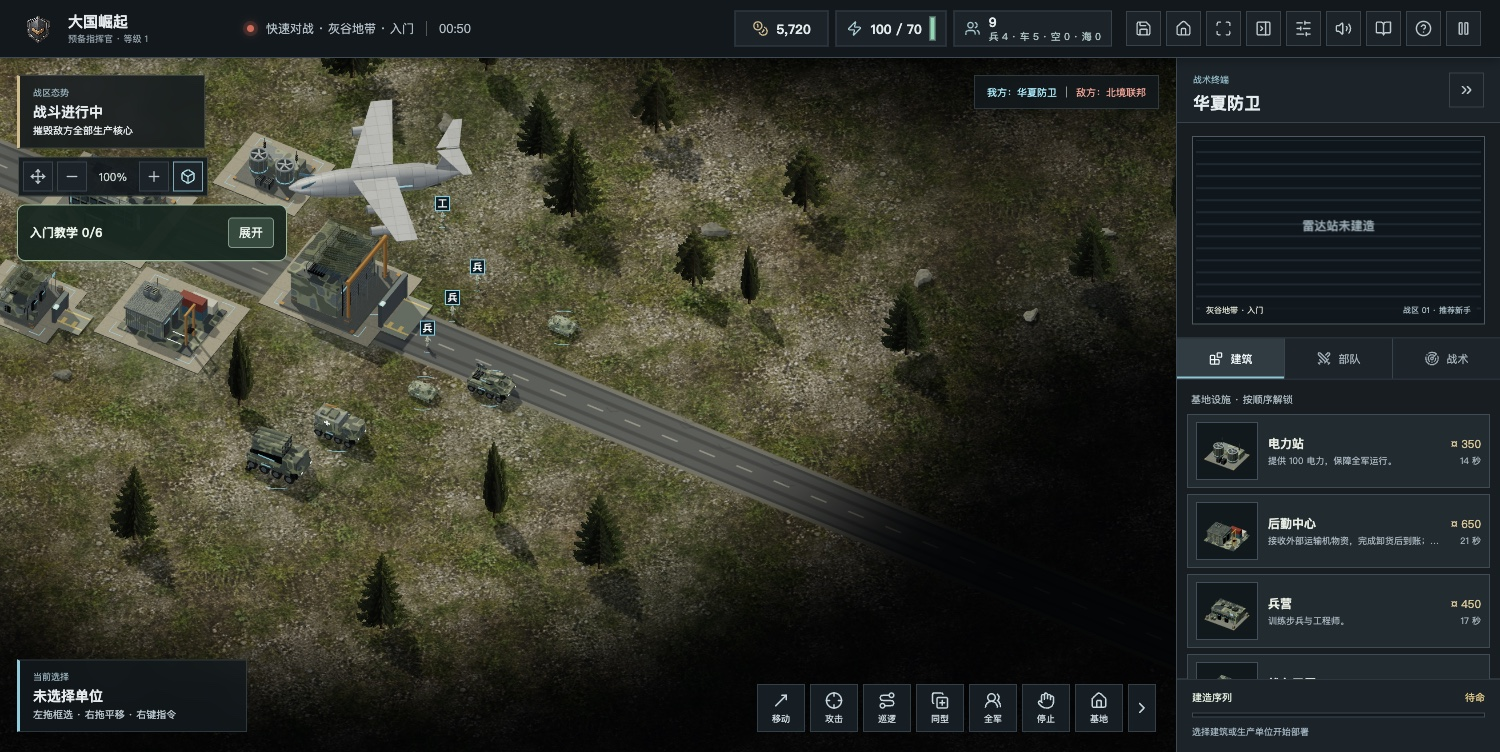
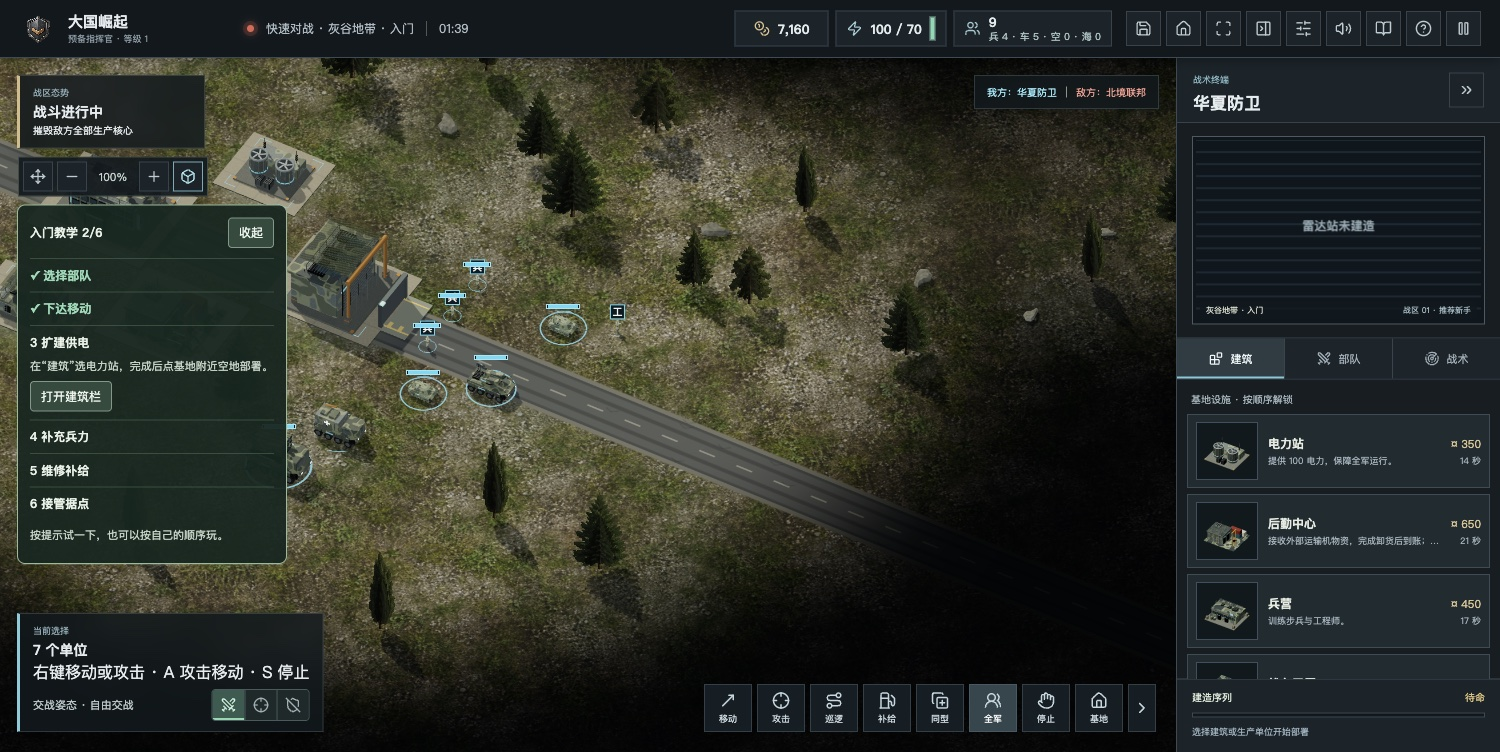
改为小横血条并限制密集团战标记遮挡

diff --git a/src/render.js b/src/render.js
@@ -1,3 +1,4 @@
+import { healthBarPresentation, healthBarBudget } from './health-bar-presentation.js';
 import { readPresentation, groundPresentationFactor, selectionTolerance, nearestScreenSelection, personnelRoleMark } from './unit-presentation.js';
 import { AIRCRAFT_LENGTHS, airframeScale, flightScaleFactor, unitModelScale, presentationRadius, aircraftCruiseHeight, aircraftGroundFactor, CARRIER_DECK_HEIGHT, CARRIER_MODEL_LENGTH } from './model-scale.js';
 import { carrierAirGroupLabel } from './carrier-airgroup.js';
@@ -1377,49 +1378,35 @@ export class Renderer {
       else screen = this.worldToScreen(entity.x, entity.y, model.position.y + (entry.displayTopHeight ?? entry.topHeight) + 9);
       if (screen.x < 0 || screen.x > this.viewport.width || screen.y < 0 || screen.y > this.viewport.height) continue;
       const infantry = entity.kind === 'unit' && UNITS[entity.type].tags.includes('infantry'), robot = entity.kind === 'unit' && isLunarRobot(this.game.map, entity.type), ammo = robot ? 10 : UNITS[entity.type]?.ammo;
-      const numeric = hovered || isSelected && selected.size === 1;
+      const presentation = healthBarPresentation(entity, { infantry, ship: UNITS[entity.type]?.tags.includes('ship'), selected: isSelected, hovered, selectedCount: selected.size, recentlyHit: this.game.time - (entity.lastDamageAt ?? -100) < 2 });
+      const numeric = presentation.numeric;
       const label = `${entity.owner !== 0 ? '敌 ' : ''}${Math.ceil(entity.hp)}/${Math.ceil(entity.maxHp)}`;
       const stance = entity.owner === 0 && isSelected && supportsCombatStance(entity) ? combatStance(entity) : 'free';
-      const status = carrierLabel || (entity.stunUntil > this.game.time ? '瘫痪' : entity.ewSuppressedUntil > this.game.time ? '防空受压制' : entity.jammedUntil > this.game.time ? '干扰' : robot && entity.battery <= 0 ? '电量耗尽' : entity.freight ? entity.freight.phase === 'unloading' ? '物资交付' : entity.freight.phase === 'outbound' ? '空载返航' : '补给运输' : entity.order?.type === 'patrol' ? '巡逻' : entity.order?.type === 'rearm' || entity.order?.type === 'restock' ? robot ? '充电整备' : UNITS[entity.type]?.tags.includes('ship') ? '返港整备' : '补给' : stance !== 'free' ? COMBAT_STANCES[stance].name : '');
+      const status = presentation.detailed ? carrierLabel || (entity.stunUntil > this.game.time ? '瘫痪' : entity.ewSuppressedUntil > this.game.time ? '防空受压制' : entity.jammedUntil > this.game.time ? '干扰' : robot && entity.battery <= 0 ? '电量耗尽' : entity.freight ? entity.freight.phase === 'unloading' ? '物资交付' : entity.freight.phase === 'outbound' ? '空载返航' : '补给运输' : entity.order?.type === 'patrol' ? '巡逻' : entity.order?.type === 'rearm' || entity.order?.type === 'restock' ? robot ? '充电整备' : UNITS[entity.type]?.tags.includes('ship') ? '返港整备' : '补给' : stance !== 'free' ? COMBAT_STANCES[stance].name : '') : '';
       ctx.font = '500 10px "Noto Sans SC",sans-serif';
-      const vertical = entity.kind === 'unit';
-      const width = Math.max(entity.kind === 'building' ? 76 : 22, numeric ? Math.ceil(ctx.measureText(label).width) + 8 : 0, status ? Math.ceil(ctx.measureText(status).width) + 8 : 0);
-      bars.push({ id: entity.id, entity, ratio, echo: entry.healthEcho, selected: isSelected, numeric, label, status, ammo, vertical, charge: robot ? entity.battery / 10 : entity.ammo, anchorX: screen.x, anchorY: screen.y, width, height: (vertical ? 36 : 10) + (numeric ? 12 : 0) + (!vertical && ammo ? 6 : 0) + (status ? 12 : 0), priority: isSelected ? 4 : hovered ? 3 : entity.owner !== 0 ? 2 : 1 });
+      const shownAmmo = presentation.detailed ? ammo : 0;
+      const width = Math.max(presentation.width, numeric ? Math.ceil(ctx.measureText(label).width) + 8 : 0, status ? Math.ceil(ctx.measureText(status).width) + 8 : 0);
+      bars.push({ id: entity.id, entity, ratio, echo: entry.healthEcho, selected: isSelected, numeric, label, status, ammo: shownAmmo, trackHeight: presentation.trackHeight, maxOffset: presentation.maxOffset, charge: robot ? entity.battery / 10 : entity.ammo, anchorX: screen.x, anchorY: screen.y, width, height: presentation.trackHeight + 2 + (numeric ? 12 : 0) + (shownAmmo ? 5 : 0) + (status ? 12 : 0), priority: presentation.priority });
     }
     const repairs = this.game.ownedBuildings(0).filter(b => b.repairing && b.hp < b.maxHp).map(building => {
       const point = this.entityAnchor(building);
       return { id: building.id, anchorX: point.x + 55, anchorY: point.y - 7, width: 30, height: 30, priority: 5 };
     });
     this.repairBadges = layoutHealthBars(repairs, this.viewport, obstacles);
-    this.healthBars = layoutHealthBars(bars, this.viewport, [...obstacles, ...this.repairBadges]);
+    this.healthBars = layoutHealthBars(bars, this.viewport, [...obstacles, ...this.repairBadges], healthBarBudget(this.viewport));
     for (const bar of this.healthBars) {
       const { entity, x, y, width, numeric, ammo } = bar, top = y + (numeric ? 12 : 0), style = healthVisual(entity.owner, bar.ratio);
-      if (Math.abs(x + width / 2 - bar.anchorX) > 2 || Math.abs(y + bar.height - bar.anchorY) > 2) {
+      if (bar.priority >= 5 && (Math.abs(x + width / 2 - bar.anchorX) > 12 || Math.abs(y + bar.height - bar.anchorY) > 12)) {
         ctx.strokeStyle = style.line; ctx.lineWidth = 1; ctx.beginPath(); ctx.moveTo(x + width / 2, y + bar.height); ctx.lineTo(bar.anchorX, bar.anchorY + 4); ctx.stroke();
       }
       if (numeric) { ctx.font = '500 10px "Noto Sans SC",sans-serif'; ctx.textAlign = 'center'; ctx.lineWidth = 3; ctx.strokeStyle = '#0b1218'; ctx.strokeText(bar.label, x + width / 2, y + 9); ctx.fillStyle = style.frame; ctx.fillText(bar.label, x + width / 2, y + 9); }
-      if (bar.vertical) {
-        const left = x + width / 2 - (ammo ? 8 : 4), track = 30;
-        ctx.fillStyle = '#081116ed'; ctx.fillRect(left - 1, top, 10, track + 2);
-        ctx.strokeStyle = style.warning ? '#f3c66e' : style.frame; ctx.strokeRect(left - .5, top + .5, 9, track + 1);
-        ctx.fillStyle = style.echo; ctx.fillRect(left + 1, top + 1 + track * (1 - bar.echo), 6, track * bar.echo);
-        ctx.fillStyle = style.fill; ctx.fillRect(left + 1, top + 1 + track * (1 - bar.ratio), 6, track * bar.ratio);
-        ctx.fillStyle = '#0c191b99'; for (let i = 1; i < 5; i++) ctx.fillRect(left + 1, top + 1 + track * i / 5, 6, 1);
-        if (ammo) for (let i = 0; i < ammo; i++) { ctx.fillStyle = i < bar.charge ? style.frame : '#273a47'; ctx.fillRect(left + 11, top + track - (i + 1) * track / ammo, 3, Math.max(1, track / ammo - 1)); }
-        if (bar.status) { ctx.font = '500 9px "Noto Sans SC",sans-serif'; ctx.textAlign = 'center'; ctx.lineWidth = 3; ctx.strokeStyle = '#0b1218'; ctx.strokeText(bar.status, x + width / 2, top + 43); ctx.fillStyle = '#f4ce82'; ctx.fillText(bar.status, x + width / 2, top + 43); }
-        continue;
-      }
-      ctx.fillStyle = '#081116ed'; ctx.fillRect(x, top, width, 9); ctx.strokeStyle = style.warning ? '#f3c66e' : style.frame; ctx.lineWidth = 1; ctx.strokeRect(x + .5, top + .5, width - 1, 8);
-      ctx.fillStyle = style.color;
-      if (style.hostile) { ctx.beginPath(); ctx.moveTo(x + 3.5, top + 1); ctx.lineTo(x + 6, top + 4.5); ctx.lineTo(x + 3.5, top + 8); ctx.lineTo(x + 1, top + 4.5); ctx.closePath(); ctx.fill(); }
-      else ctx.fillRect(x + 2, top + 2, 3, 5);
-      const innerWidth = width - 10;
-      ctx.fillStyle = style.echo; ctx.fillRect(x + 7, top + 2, innerWidth * bar.echo, 5);
-      ctx.fillStyle = style.fill; ctx.fillRect(x + 7, top + 2, innerWidth * bar.ratio, 5);
-      ctx.fillStyle = '#0c191b77'; const segments = entity.kind === 'building' ? 10 : width < 30 ? 4 : 6;
-      for (let i = 1; i < segments; i++) ctx.fillRect(Math.round(x + 7 + innerWidth * i / segments), top + 2, 1, 5);
-      if (ammo) for (let i = 0; i < ammo; i++) { ctx.fillStyle = i < bar.charge ? style.frame : '#273a47'; ctx.fillRect(x + 2 + i * (width - 4) / ammo, top + 11, Math.max(1, (width - 4) / ammo - 2), 3); }
-      if (bar.status) { const baseline = top + (ammo ? 26 : 20); ctx.font = '500 9px "Noto Sans SC",sans-serif'; ctx.textAlign = 'center'; ctx.lineWidth = 3; ctx.strokeStyle = '#0b1218'; ctx.strokeText(bar.status, x + width / 2, baseline); ctx.fillStyle = '#f4ce82'; ctx.fillText(bar.status, x + width / 2, baseline); }
+      const track = bar.trackHeight, inner = width - 4;
+      ctx.fillStyle = '#081116ed'; ctx.fillRect(x, top, width, track);
+      ctx.strokeStyle = style.warning ? '#f3c66e' : style.frame; ctx.lineWidth = 1; ctx.strokeRect(x + .5, top + .5, width - 1, track - 1);
+      ctx.fillStyle = style.echo; ctx.fillRect(x + 2, top + 1, inner * bar.echo, track - 2);
+      ctx.fillStyle = style.fill; ctx.fillRect(x + 2, top + 1, inner * bar.ratio, track - 2);
+      if (ammo) for (let i = 0; i < ammo; i++) { ctx.fillStyle = i < bar.charge ? style.frame : '#273a47'; ctx.fillRect(x + 2 + i * inner / ammo, top + track + 2, Math.max(1, inner / ammo - 1), 2); }
+      if (bar.status) { const baseline = top + track + (ammo ? 15 : 10); ctx.font = '500 9px "Noto Sans SC",sans-serif'; ctx.textAlign = 'center'; ctx.lineWidth = 3; ctx.strokeStyle = '#0b1218'; ctx.strokeText(bar.status, x + width / 2, baseline); ctx.fillStyle = '#f4ce82'; ctx.fillText(bar.status, x + width / 2, baseline); }
     }
     if (this.dragBox) {
       const { start: a, end: b } = this.dragBox; ctx.fillStyle = 'rgba(104,220,239,.1)'; ctx.strokeStyle = '#8de5f0'; ctx.lineWidth = 1; ctx.fillRect(a.x, a.y, b.x - a.x, b.y - a.y); ctx.strokeRect(a.x, a.y, b.x - a.x, b.y - a.y);
@@ -1546,7 +1533,7 @@ export class Renderer {
 
   drawPersonnelMarkers() {
     if (this.game.map.future) return;
-    const ctx = this.overlay;
+    const ctx = this.overlay, markerCells = new Set(), dense = (this.framedUnits?.size || 0) > 80;
     // 小识别符随已知单位绘制，人物登载或被战争迷雾隐藏时也必须消失。
     for (const entry of this.entities.values()) {
       const entity = entry.entity;
@@ -1554,6 +1541,11 @@ export class Renderer {
       const point = this.worldToScreen(entity.x, entity.y, entry.model.position.y + (entry.displayTopHeight ?? entry.topHeight) + 2);
       if (point.x < 0 || point.y < 0 || point.x > this.viewport.width || point.y > this.viewport.height) continue;
       if (this.presentation === 'readable' && (this.camera.zoom < 1.5 || this.game.selected.includes(entity.id))) {
+        // 密集编队隐藏普通步兵文字；工程师、侦察员每个屏幕小格最多一个标记。
+        const focused = this.hoveredId === entity.id || this.game.selected.length === 1 && this.game.selected[0] === entity.id;
+        const cell = `${Math.floor(point.x / 28)}:${Math.floor(point.y / 22)}`;
+        if (dense && !focused && (entity.type === 'rifle' || markerCells.has(cell))) continue;
+        markerCells.add(cell);
         const mark = personnelRoleMark(entity.type);
         if (mark) {
           ctx.save(); ctx.font = '700 10px sans-serif'; ctx.textAlign = 'center'; ctx.textBaseline = 'middle';

diff --git a/public/official/articles/v31-20261106/index.html b/public/official/articles/v31-20261106/index.html
@@ -1,1 +1,1 @@
-<!doctype html><html lang="zh-CN"><head><meta charset="utf-8"><meta name="viewport" content="width=device-width,initial-scale=1"><title>迈向4.0：先让战场看得清、指挥顺｜大国崛起</title><link rel="icon" href="/assets/official/official-emblem-32.png"><style>*{box-sizing:border-box}body{margin:0;background:#0e1c20;color:#dfece8;font:17px/1.9 system-ui}main{max-width:980px;margin:auto;padding:44px 24px 80px}a{color:#8ed8d4}h1{font-size:clamp(28px,5vw,44px);line-height:1.4}h2{font-size:26px;margin-top:42px}p{color:#c5d7d2}img{width:100%;height:auto;border:1px solid #375453;border-radius:10px}small{color:#a3bcb8}.tag{color:#d8b873}li{margin:10px 0}nav{display:flex;gap:24px;flex-wrap:wrap}.cards{display:grid;grid-template-columns:repeat(auto-fit,minmax(230px,1fr));gap:16px}.cards article{padding:20px;background:#183034;border:1px solid #375453;border-radius:12px}.cards h3{margin:0}</style></head><body><main><nav><a href="/official/">← 官网</a><a href="/play/">试玩新版 ↗</a><a href="https://github.com/chencheng666/great-powers-rts">GitHub ↗</a></nav><p class="tag">网页 3.1 · 迈向 4.0 / 2026年11月6日</p><h1>真实比例要保留，<br>好操作也要照顾。</h1><p>最近有玩家提出：比例调得接近现实以后，人物、坦克在默认镜头下太小。这个问题确实存在。我们这次先把“看清楚、选得准”补上，再继续推进阵营和战役。</p><h2>默认更容易看清，也可以切回原比例</h2><p>100% 镜头下，人员显示放大约50%，地面车辆放大约20%。拉远镜头时做有限补偿，飞机和舰船保留大小关系。进入战斗后，在顶部“界面设置 → 单位比例”可以切换原比例。</p><p>这只是显示调整，射程、碰撞、速度和伤害不会跟着变。人物上方用“兵、工、侦”小标记帮助识别；鼠标和触屏的选取范围也分别优化。</p><figure><img src="battle-readable.jpg" alt="新版默认100%镜头下的人物标识与车辆比例" loading="lazy"><figcaption><small>新版网页实际战场截图，默认100%镜头。</small></figcaption></figure><h2>看到轮廓，就知道它负责什么</h2><p>五种阵营特色装备有了独立的原创模型。防空雷达、多管火箭、重坦炮塔、无人模块和脉冲天线成为主要识别特征。模型尽量简洁，保留活动炮塔和火口，让普通电脑也能承受成队部署。</p><figure><img src="faction-models.jpg" alt="五阵营特色装备的原创模型与职责" loading="lazy"><figcaption><small>游戏实际模型的受控展示，不是战斗截图；战力沿用已有规则。</small></figcaption></figure><p>东亚“蜂群母机”改名“蜂群指挥车”，因为它实际使用地面路径。选阵营时展开说明，可以直接看到建议编队、打法和弱点。</p><h2>4.0 接下来做什么</h2><div class="cards"><article><h3>先把一局打好</h3><p>本轮已加入易读比例和阵营辨识；继续用实际反馈校准。</p></article><article><h3>再让选择有代价</h3><p>规划互斥研发分支，让侦察、防护、机动与攻坚有明确取舍。</p></article><article><h3>接起连续战役</h3><p>规划少量区域的连续作战，带着损失、维修和资源选择进入下一关。</p></article><article><h3>给重玩新的目标</h3><p>规划同种子挑战、随机事件与复盘，逐步验证长期可玩性。</p></article></div><p>研发分支和连续战役仍处于规划阶段，本次是3.1先行改进，不是完整4.0。网页先更新；桌面、ZIP和商店版以下载页及平台实际版本为准。TapTap《星港演习》科幻版独立维护。</p><p>欢迎体验后通过游戏内“意见反馈”告诉我们：默认镜头是否更清楚，最容易混淆的是哪两个兵种，下一步最想玩什么任务。</p><nav><a href="/play/">开始试玩 ↗</a><a href="/downloads/">查看各平台版本 ↗</a></nav></main></body></html>
+<!doctype html><html lang="zh-CN"><head><meta charset="utf-8"><meta name="viewport" content="width=device-width,initial-scale=1"><title>迈向4.0：先让战场看得清、指挥顺｜大国崛起</title><link rel="icon" href="/assets/official/official-emblem-32.png"><style>*{box-sizing:border-box}body{margin:0;background:#0e1c20;color:#dfece8;font:17px/1.9 system-ui}main{max-width:980px;margin:auto;padding:44px 24px 80px}a{color:#8ed8d4}h1{font-size:clamp(28px,5vw,44px);line-height:1.4}h2{font-size:26px;margin-top:42px}p{color:#c5d7d2}img{width:100%;height:auto;border:1px solid #375453;border-radius:10px}small{color:#a3bcb8}.tag{color:#d8b873}li{margin:10px 0}nav{display:flex;gap:24px;flex-wrap:wrap}.cards{display:grid;grid-template-columns:repeat(auto-fit,minmax(230px,1fr));gap:16px}.cards article{padding:20px;background:#183034;border:1px solid #375453;border-radius:12px}.cards h3{margin:0}</style></head><body><main><nav><a href="/official/">← 官网</a><a href="/play/">试玩新版 ↗</a><a href="https://github.com/chencheng666/great-powers-rts">GitHub ↗</a></nav><p class="tag">网页 3.1 · 迈向 4.0 / 2026年11月6日</p><h1>真实比例要保留，<br>好操作也要照顾。</h1><p>最近有玩家提出：比例调得接近现实以后，人物、坦克在默认镜头下太小。这个问题确实存在。我们这次先把“看清楚、选得准”补上，再继续推进阵营和战役。</p><h2>默认更容易看清，也可以切回原比例</h2><p>100% 镜头下，人员显示放大约50%，地面车辆放大约20%。拉远镜头时做有限补偿，飞机和舰船保留大小关系。进入战斗后，在顶部“界面设置 → 单位比例”可以切换原比例。</p><p>这只是显示调整，射程、碰撞、速度和伤害不会跟着变。人物上方用“兵、工、侦”小标记帮助识别；鼠标和触屏的选取范围也分别优化。</p><figure><img src="battle-readable.jpg" alt="新版默认100%镜头下的人物标识与车辆比例" loading="lazy"><figcaption><small>新版网页实际战场截图，默认100%镜头。</small></figcaption></figure><h2>血条改成小横条，团战少挡一点</h2><p>步兵使用28像素、车辆使用34像素宽的小横血条。单选或悬停时才显示详细生命值，整队选中时收起数字和弹药标记。密集队形限制错位距离与血条总量，优先保留选中、受击和低血量单位。</p><h2>看到轮廓，就知道它负责什么</h2><p>五种阵营特色装备有了独立的原创模型。防空雷达、多管火箭、重坦炮塔、无人模块和脉冲天线成为主要识别特征。模型尽量简洁，保留活动炮塔和火口，让普通电脑也能承受成队部署。</p><figure><img src="faction-models.jpg" alt="五阵营特色装备的原创模型与职责" loading="lazy"><figcaption><small>游戏实际模型的受控展示，不是战斗截图；战力沿用已有规则。</small></figcaption></figure><p>东亚“蜂群母机”改名“蜂群指挥车”，因为它实际使用地面路径。选阵营时展开说明，可以直接看到建议编队、打法和弱点。</p><h2>4.0 接下来做什么</h2><div class="cards"><article><h3>先把一局打好</h3><p>本轮已加入易读比例和阵营辨识；继续用实际反馈校准。</p></article><article><h3>再让选择有代价</h3><p>规划互斥研发分支，让侦察、防护、机动与攻坚有明确取舍。</p></article><article><h3>接起连续战役</h3><p>规划少量区域的连续作战，带着损失、维修和资源选择进入下一关。</p></article><article><h3>给重玩新的目标</h3><p>规划同种子挑战、随机事件与复盘，逐步验证长期可玩性。</p></article></div><p>研发分支和连续战役仍处于规划阶段，本次是3.1先行改进，不是完整4.0。网页先更新；桌面、ZIP和商店版以下载页及平台实际版本为准。TapTap《星港演习》科幻版独立维护。</p><p>欢迎体验后通过游戏内“意见反馈”告诉我们：默认镜头是否更清楚，最容易混淆的是哪两个兵种，下一步最想玩什么任务。</p><nav><a href="/play/">开始试玩 ↗</a><a href="/downloads/">查看各平台版本 ↗</a></nav></main></body></html>

diff --git a/test/health-bar-presentation.test.js b/test/health-bar-presentation.test.js
@@ -1,0 +1,32 @@
+import test from 'node:test';
+import assert from 'node:assert/strict';
+import { healthBarPresentation, healthBarBudget } from '../src/health-bar-presentation.js';
+import { layoutHealthBars } from '../src/health-layout.js';
+
+test('小横血条固定屏幕尺寸，单选显示数字，整队选中不堆叠弹药与文字', () => {
+  const unit = { kind: 'unit', hp: 80, maxHp: 100 };
+  const soldier = healthBarPresentation(unit, { infantry: true, selected: true, selectedCount: 80 });
+  assert.equal(soldier.width, 28); assert.equal(soldier.trackHeight, 5);
+  assert.equal(soldier.numeric, false); assert.equal(soldier.detailed, false);
+  const focus = healthBarPresentation(unit, { selected: true, selectedCount: 1 });
+  assert.equal(focus.numeric, true); assert.equal(focus.detailed, true);
+  assert.equal(healthBarPresentation(unit, { ship: true }).width, 42);
+  assert.equal(healthBarPresentation({ ...unit, kind: 'building' }).trackHeight, 7);
+});
+
+test('240单位密集受伤时限制血条数量与错位距离，关注单位优先且不遮操作区', () => {
+  const viewport = { width: 1500, height: 750 }, obstacle = { x: 100, y: 200, width: 180, height: 160 };
+  const bars = Array.from({ length: 240 }, (_, id) => {
+    const p = healthBarPresentation({ kind: 'unit', hp: id % 2 ? 20 : 80, maxHp: 100 }, { infantry: true, selected: id === 239, selectedCount: 1 });
+    return { ...p, id, anchorX: 100 + id % 20 * 25, anchorY: 200 + Math.floor(id / 20) * 15, height: 7 };
+  });
+  const result = layoutHealthBars(bars, viewport, [obstacle], healthBarBudget(viewport));
+  assert.ok(result.length > 20 && result.length <= 120); assert.equal(result[0].id, 239);
+  const intersects = (a, b) => a.x < b.x + b.width && a.x + a.width > b.x && a.y < b.y + b.height && a.y + a.height > b.y;
+  for (const bar of result) {
+    assert.ok(Math.abs(bar.x + bar.width / 2 - bar.anchorX) + Math.abs(bar.y + bar.height - bar.anchorY) <= bar.maxOffset);
+    assert.equal(intersects(bar, obstacle), false);
+    assert.equal(result.some(other => other.id !== bar.id && intersects(bar, other)), false);
+  }
+  assert.equal(healthBarBudget({ width: 390 }), 64);
+});

diff --git a/src/health-layout.js b/src/health-layout.js
@@ -1,8 +1,9 @@
 const overlaps = (a, b) => a.x < b.x + b.width + 3 && a.x + a.width + 3 > b.x && a.y < b.y + b.height + 3 && a.y + a.height + 3 > b.y;
 
-export function layoutHealthBars(bars, viewport, obstacles = []) {
+export function layoutHealthBars(bars, viewport, obstacles = [], limit = Infinity) {
   const occupied = [...obstacles], result = [];
   for (const bar of [...bars].sort((a, b) => b.priority - a.priority || a.anchorY - b.anchorY || a.id - b.id)) {
+    if (result.length >= limit) break;
     const candidates = [];
     for (let row = 0; row <= 8; row++) for (const col of [0, -1, 1]) {
       const dx = col * (bar.width + 6), dy = -row * (bar.height + 4);
@@ -10,7 +11,7 @@ export function layoutHealthBars(bars, viewport, obstacles = []) {
       if (row && row <= 3) candidates.push({ x: Math.round(bar.anchorX - bar.width / 2 + dx), y: Math.round(bar.anchorY - bar.height - dy), width: bar.width, height: bar.height, cost: Math.abs(dx) + Math.abs(dy) * 1.4 });
     }
     candidates.sort((a, b) => a.cost - b.cost);
-    const rect = candidates.find(candidate => candidate.x >= 4 && candidate.y >= 4 && candidate.x + candidate.width <= viewport.width - 4 && candidate.y + candidate.height <= viewport.height - 4 && !occupied.some(other => overlaps(candidate, other)));
+    const rect = candidates.find(candidate => (bar.maxOffset === undefined || Math.abs(candidate.x + candidate.width / 2 - bar.anchorX) + Math.abs(candidate.y + candidate.height - bar.anchorY) <= bar.maxOffset) && candidate.x >= 4 && candidate.y >= 4 && candidate.x + candidate.width <= viewport.width - 4 && candidate.y + candidate.height <= viewport.height - 4 && !occupied.some(other => overlaps(candidate, other)));
     if (!rect) continue;
     occupied.push(rect); result.push({ ...bar, ...rect });
   }

diff --git a/src/health-bar-presentation.js b/src/health-bar-presentation.js
@@ -1,0 +1,13 @@
+// 血条以屏幕像素计，不随镜头放大；详细数字与弹药只给当前关注单位。
+export function healthBarPresentation(entity, { infantry = false, ship = false, selected = false, hovered = false, selectedCount = 0, recentlyHit = false } = {}) {
+  const ratio = Math.max(0, Math.min(1, entity.hp / entity.maxHp));
+  return {
+    width: entity.kind === 'building' ? 56 : ship ? 42 : infantry ? 28 : 34,
+    trackHeight: entity.kind === 'building' ? 7 : 5,
+    numeric: hovered || selected && selectedCount === 1,
+    detailed: hovered || selected && selectedCount <= 4,
+    priority: hovered ? 6 : selected ? 5 : recentlyHit ? 4 : ratio <= .25 ? 3 : ratio < 1 ? 2 : 1,
+    maxOffset: hovered || selected ? 64 : 28,
+  };
+}
+export function healthBarBudget(viewport) { return viewport.width <= 600 ? 64 : 120; }

diff --git a/src/version.js b/src/version.js
@@ -1,2 +1,2 @@
 export const GAME_VERSION = '3.1.0';
-export const BUILD_ID = '20261106-v4-readability-r1';
+export const BUILD_ID = '20261106-v4-readability-r2';

diff --git a/docs/4.0易玩性先行验收-20261106.md b/docs/4.0易玩性先行验收-20261106.md
@@ -1,6 +1,6 @@
 # 3.1 易读战场：4.0 先行改进验收
 
-日期：2026-11-06。网页版本 3.1.0，构建 `20261106-v4-readability-r1`。
+日期：2026-11-06。网页版本 3.1.0，构建 `20261106-v4-readability-r2`。
 
 ## 本轮范围
 
@@ -11,7 +11,7 @@
 
 ## 验证结果
 
-- 全量 `npm test`：641 项通过，0 失败、0 跳过。`npm run build` 成功，保留原有大分块体积提示。
+- 全量 `npm test`：643 项通过，0 失败、0 跳过。`npm run build` 成功，保留原有大分块体积提示。
 - Ego Lite 实际主游戏：100% 开局、易读/原比例切换、工程师选取与右键移动、空白地框选 7 个单位、教学前两项完成、01:37 手动存档恢复。
 - 受控真实渲染器场景：100% 与 65% 比例对比；偏离工程师中心 15 像素可选中。迷雾、敌军、登载、死亡单位过滤由自动测试验证。
 - 390×844 浏览器模拟：主界面及设置可操作，无横向溢出；单位比例选项右界 361 像素。非实体手机兼容性认证。
@@ -27,6 +27,13 @@
 | 电磁干扰车 | 2516 | 7 |
 
 模型源文件为 `src/faction-models.js`，授权记录在 `ASSETS.md`。未新增外部模型、贴图或网络请求。
+
+## 小横血条补充验收
+
+- 人员28×5、车辆34×5、舰船42×5、建筑56×7屏幕像素；关注单位才显示生命数字和弹药，整队选中收起细节。
+- 桌面最多120条、窄屏64条，选中、受击与危急单位优先，限制错位距离，避开操作面板；超过80个可见单位时收起普通步兵文字，工程/侦察标记按屏幕网格减重。
+- 240人员受伤并全选的受控静态场景：显示120条小横血条；120次CPU渲染样本中位约7.4毫秒，P95约9.9毫秒。此结果不代表大型混战GPU帧率。
+- 新增密集血条位置、预算与细节显示测试；全量643项通过，标记减重后相关6项复核通过。
 
 ## 发布边界
 

diff --git a/docs/plans/v4.0.md b/docs/plans/v4.0.md
@@ -8,6 +8,7 @@
 
 - 默认易读比例：100% 镜头人员显示为原尺度 1.5 倍、地面车辆 1.2 倍；拉远到 45% 时分别封顶 1.9 倍和 1.4 倍，拉近不继续增大。飞机、舰船、建筑、月表原尺度保留。
 - “界面设置 → 单位比例”支持原比例与易读比例，偏好存本机。人物的兵／工／侦标识有暗底，随迷雾、登载和死亡消失。
+- 小横血条：人员28×5、车辆34×5屏幕像素；关注单位保留数字和弹药，大队选中收起细节；桌面最多120条、窄屏64条，优先关注与危急单位，限制避让距离。
 - 鼠标选取补偿半径 18 CSS 像素、触屏 26 CSS 像素；保留模型直接命中优先、最近己方对象选择，空白地仍可框选。
 - 碰撞、射程、移动、弹药、伤害和人口不随显示尺寸变化；原存档和联机协议不变。
 - 五阵营已有特色装备采用五种原创低模轮廓，保留炮塔、炮管和火口。东亚“蜂群母机”更名“蜂群指挥车”，明确地面路径，避免误以为可飞行跨海。
